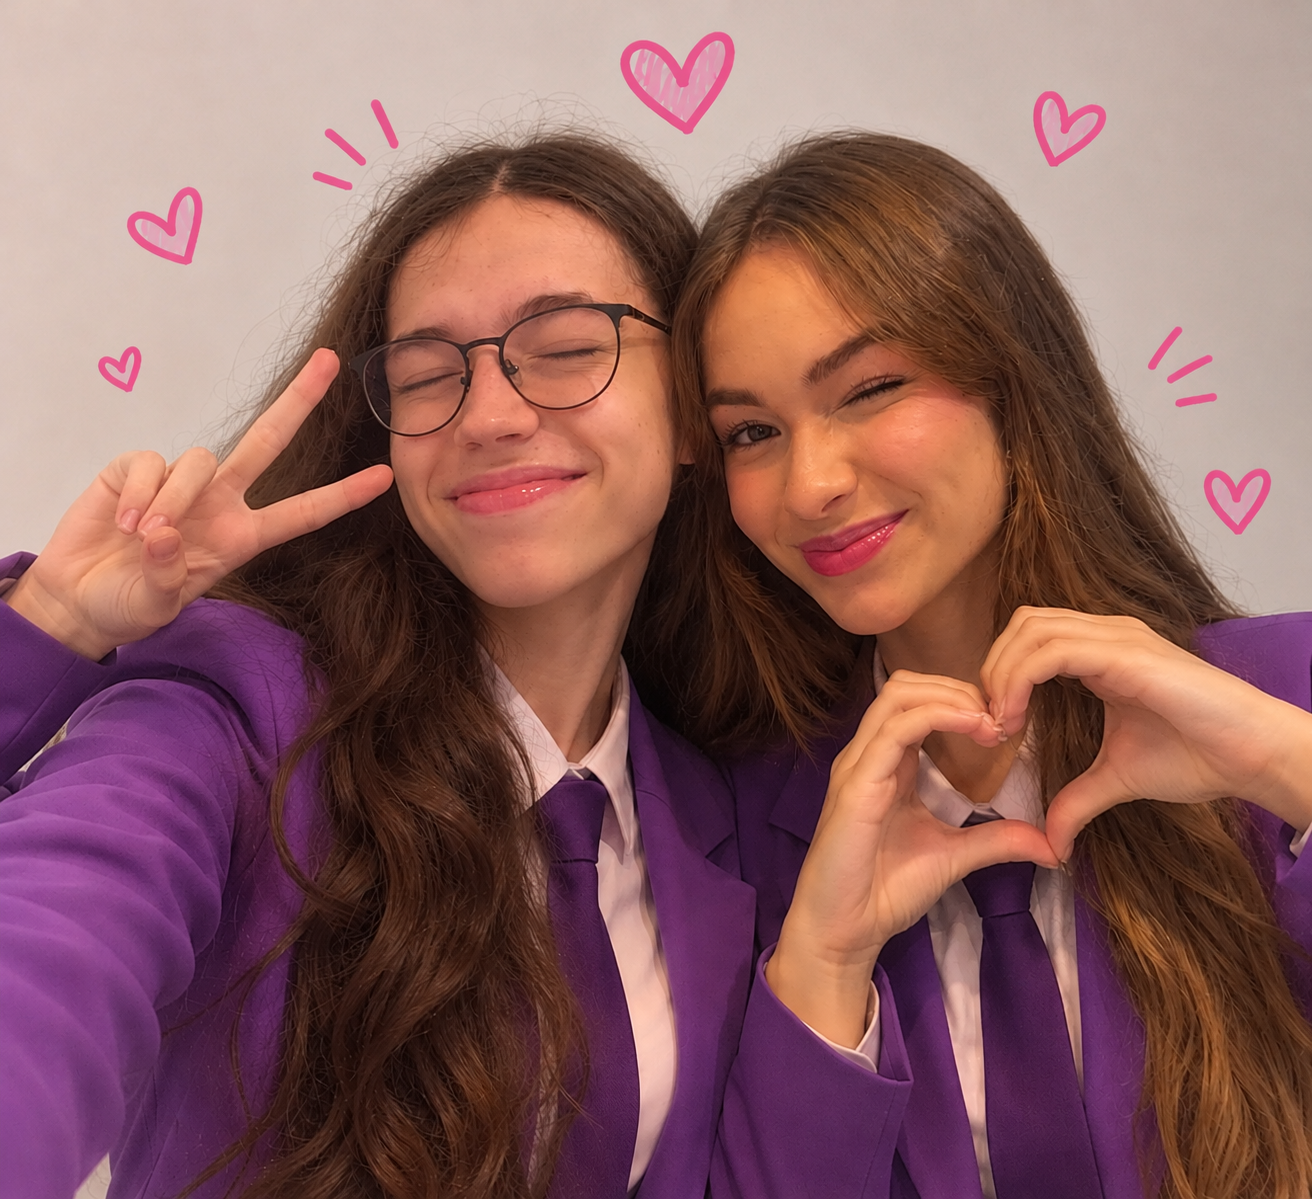
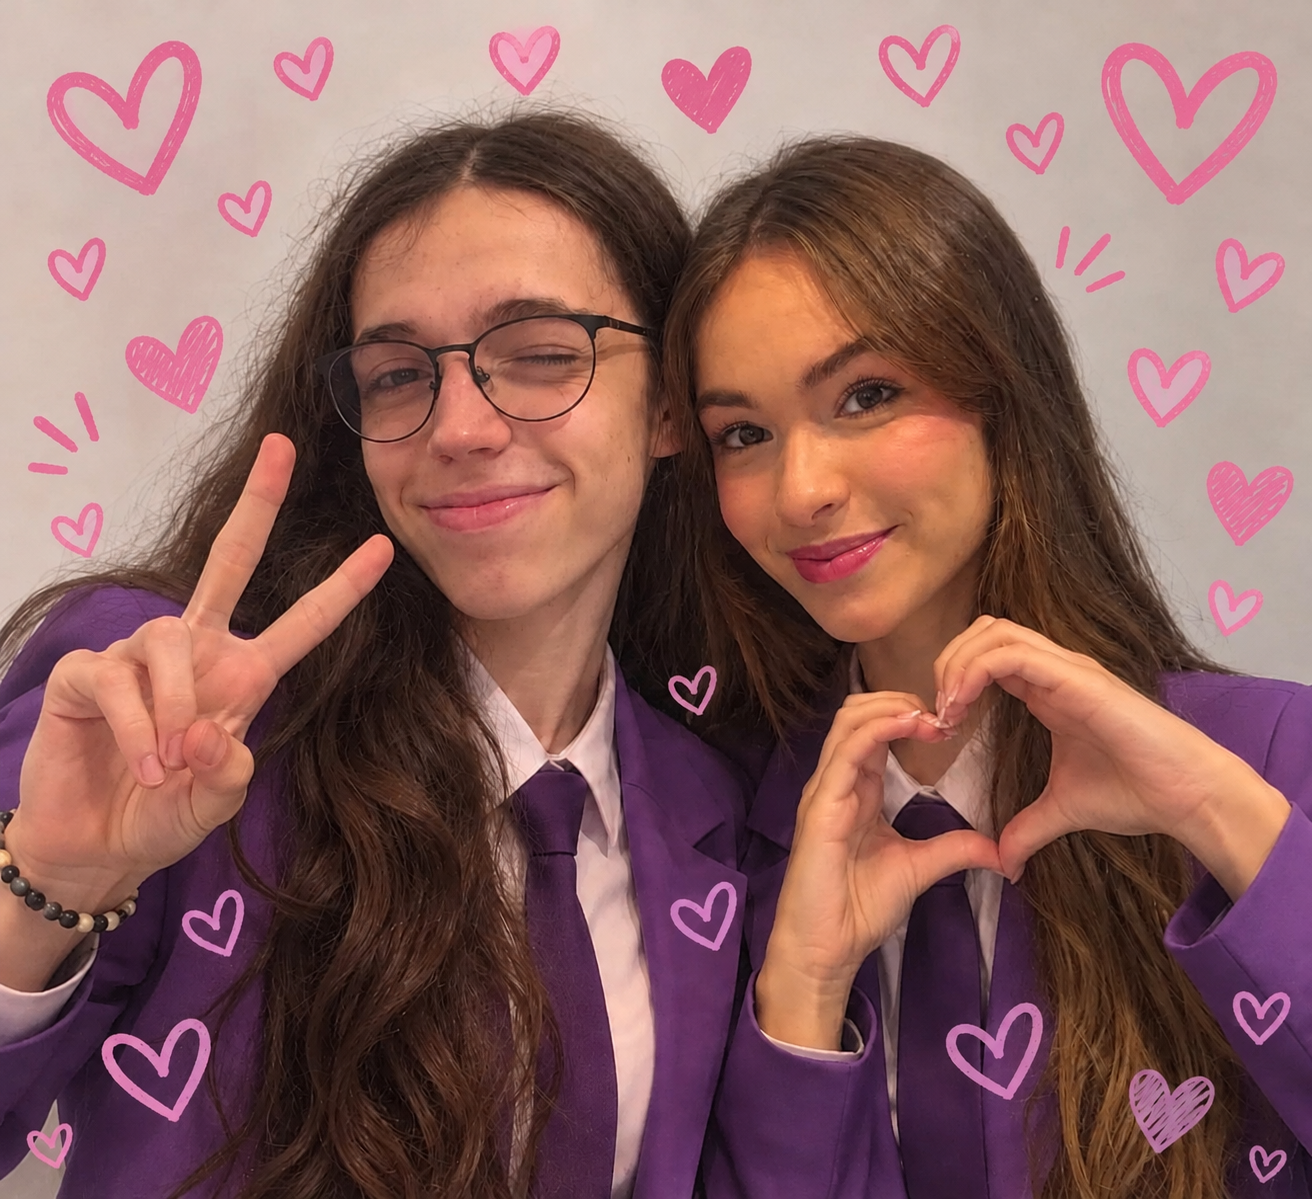
ultimos reparos

diff --git a/guts.html b/guts.html
@@ -290,7 +290,7 @@
 		<br>
 		<br>
 		<div class="seção">
-			<iframe width="560" height="315" src="https://www.youtube.com/embed/0g8k1j3J6xM?si=7r5X9W2Z4nYq0p1A"
+			<iframe width="560" height="315" src="https://www.youtube.com/embed/rzzphihui1w?si=jDhcBW9TfnjoSA6B"
 				title="YouTube video player" frameborder="0"
 				allow="accelerometer; autoplay; clipboard-write; encrypted-media; gyroscope; picture-in-picture; web-share"
 				referrerpolicy="strict-origin-when-cross-origin" allowfullscreen></iframe>
@@ -302,7 +302,8 @@
 				<p>Em "the grudge", Olivia Rodrigo transforma um amor intenso em ressentimento, mostrando como a mágoa
 					pode distorcer até os sentimentos mais sinceros. O verso “My undying love, now I hold it like a
 					grudge” (“Meu amor imortal; agora, eu o guardo como
-					um ressentimento”)revela essa mudança, enquanto “It takes strength to forgive, but I don't feel very strong”
+					um ressentimento”)revela essa mudança, enquanto “It takes strength to forgive, but I don't feel very
+					strong”
 					(É preciso força para perdoar, mas não me sinto muito forte) sintetiza a luta interna entre o desejo
 					de superar e a dificuldade de perdoar. Segundo a própria artista, esse verso foi o ponto de partida
 					para a composição, destacando a vulnerabilidade e honestidade emocional presentes na canção.</p>

diff --git a/sobre.html b/sobre.html
@@ -27,6 +27,7 @@
 		<figure class="nós">
 			<img class="sobre" src="img/sobre.jpg" alt="sobre nós" width="49%">
 			<img class="sobrehover" src="img/sobre2.png" alt="sobre nós" width="50%">
+		</figure>
 			<div class="texto2">
 				<h1 class="criadores"> Conheça mais sobre os criadores </h1>
 				<p class="descricao">Felipe e Amanda, os maiores fãs da Olivia Rodrigo, são os criadores dessa página. Felipe já escutou o
@@ -44,7 +45,6 @@
 				<br>
 				<br>
 			</div>
-			</figure>
 			<table class="tabela">
 				<caption>
 					<h1>Informações dos Criadores</h1>
